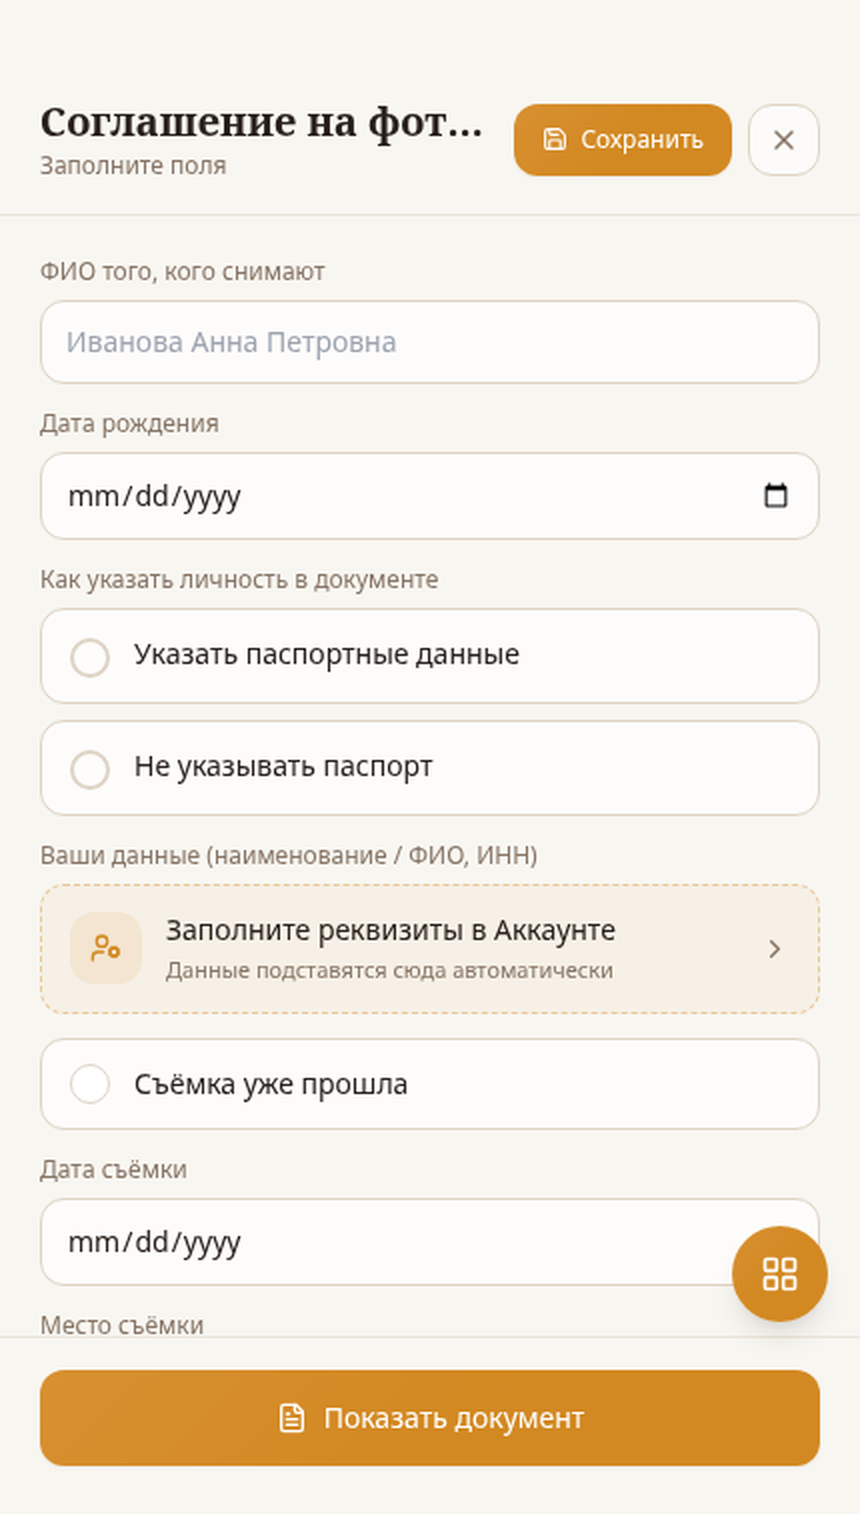
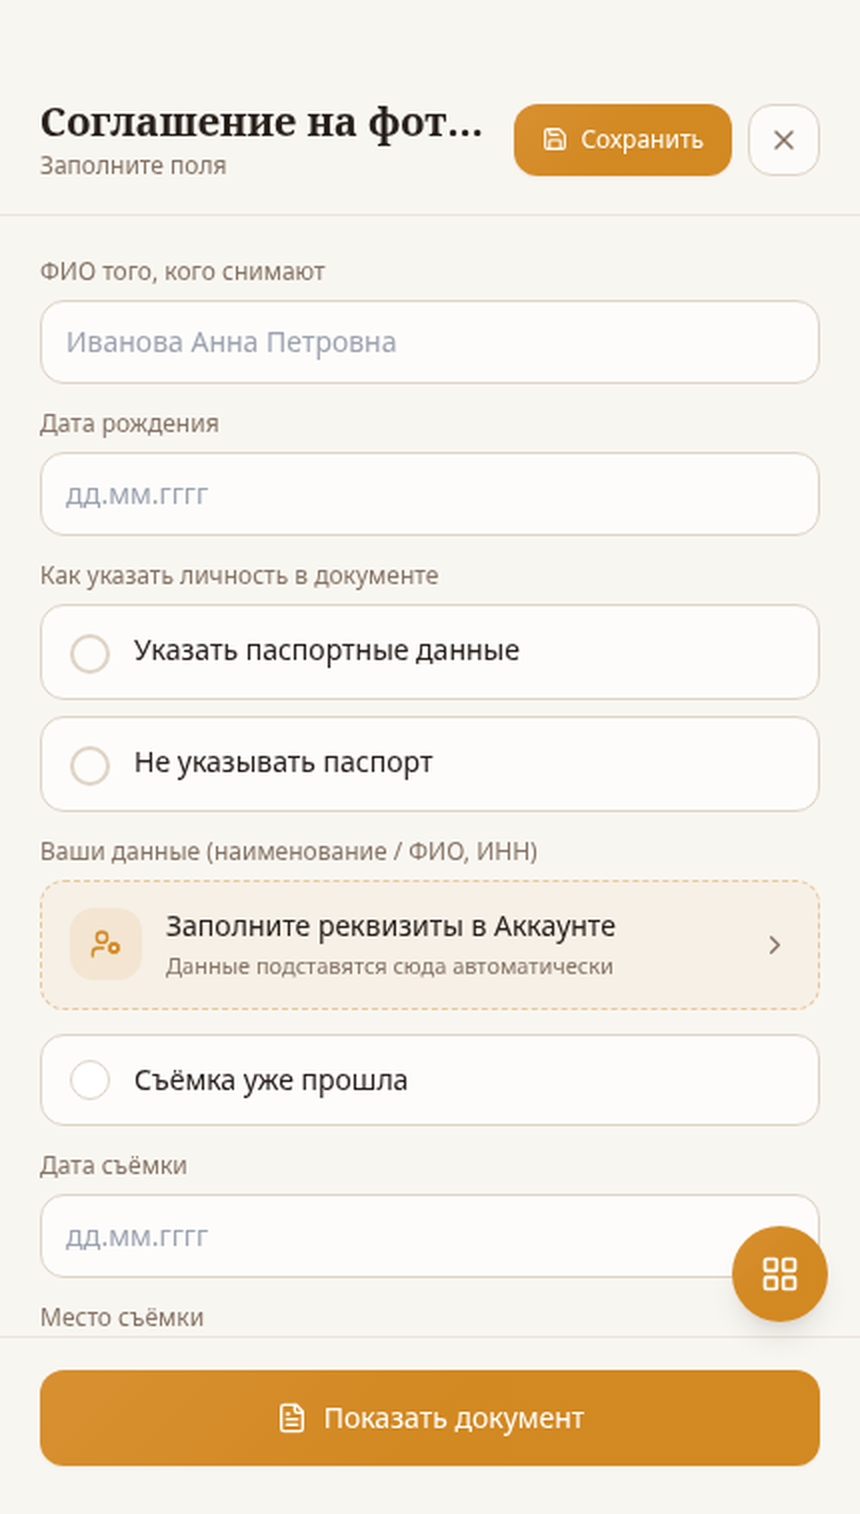
[FEAT] Добавил ссылки на картинки форм

diff --git a/src/components/app/templates/TemplateFillFields.tsx b/src/components/app/templates/TemplateFillFields.tsx
@@ -20,6 +20,22 @@ interface Props {
   onGoToAccount?: () => void;
 }
 
+// Даты храним как ГГГГ-ММ-ДД, а показываем привычно — ДД.ММ.ГГГГ
+function isoToRu(v: string): string {
+  if (!v) return "";
+  const m = v.match(/^(\d{4})-(\d{2})-(\d{2})$/);
+  if (m) return `${m[3]}.${m[2]}.${m[1]}`;
+  // Незавершённый ввод — расставляем точки на лету: 1205 → 12.05
+  const d = v.replace(/\D/g, "").slice(0, 8);
+  return [d.slice(0, 2), d.slice(2, 4), d.slice(4, 8)].filter(Boolean).join(".");
+}
+
+function ruToIso(raw: string): string {
+  const d = raw.replace(/\D/g, "").slice(0, 8);
+  if (d.length < 8) return d.length ? d : "";
+  return `${d.slice(4, 8)}-${d.slice(2, 4)}-${d.slice(0, 2)}`;
+}
+
 export default function TemplateFillFields({
   doc,
   contract,
@@ -169,15 +185,20 @@ export default function TemplateFillFields({
                   )}
                 </label>
                 <input
-                  type={f.type}
-                  inputMode={f.type === "tel" ? "numeric" : undefined}
-                  value={values[f.key] || ""}
+                  type={f.type === "date" ? "text" : f.type}
+                  inputMode={f.type === "tel" || f.type === "date" ? "numeric" : undefined}
+                  value={f.type === "date" ? isoToRu(values[f.key] || "") : values[f.key] || ""}
                   onChange={(e) => {
+                    if (f.type === "date") {
+                      onSet(f.key, ruToIso(e.target.value));
+                      return;
+                    }
                     const v = f.type === "tel" ? e.target.value.replace(/\D/g, "").slice(0, 10) : e.target.value;
                     onSet(f.key, v);
                   }}
                   readOnly={locked}
-                  placeholder={f.placeholder}
+                  maxLength={f.type === "date" ? 10 : undefined}
+                  placeholder={f.type === "date" ? "дд.мм.гггг" : f.placeholder}
                   className="w-full px-3 py-2.5 rounded-xl border border-border bg-white/70 text-sm outline-none focus:border-primary transition-colors read-only:opacity-70"
                 />
                 {f.hint && <p className="text-[11px] text-muted-foreground mt-1">{f.hint}</p>}
